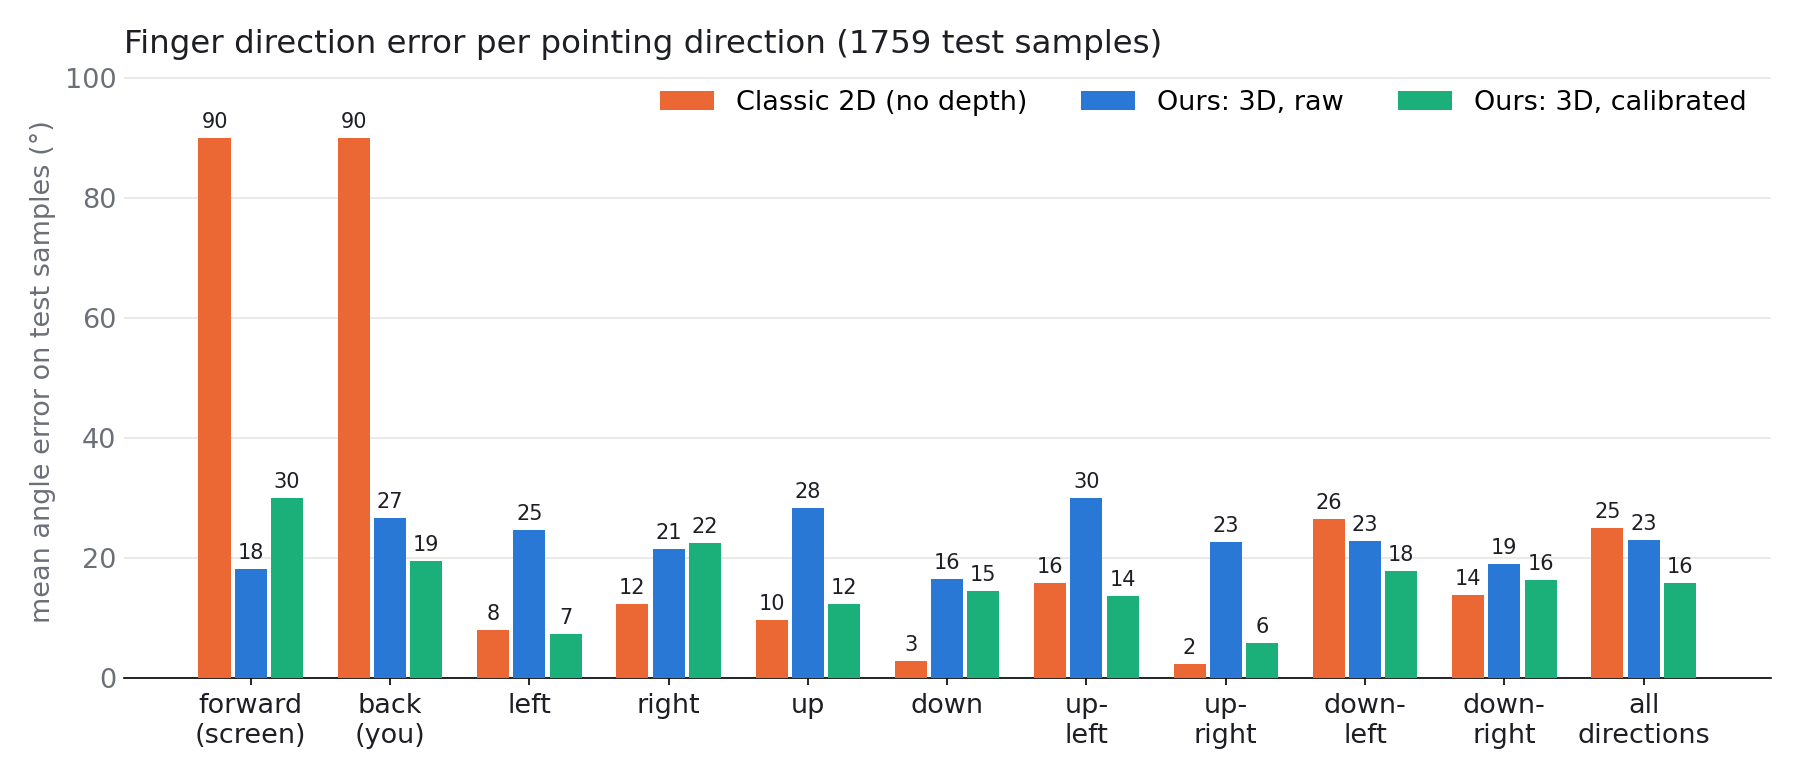
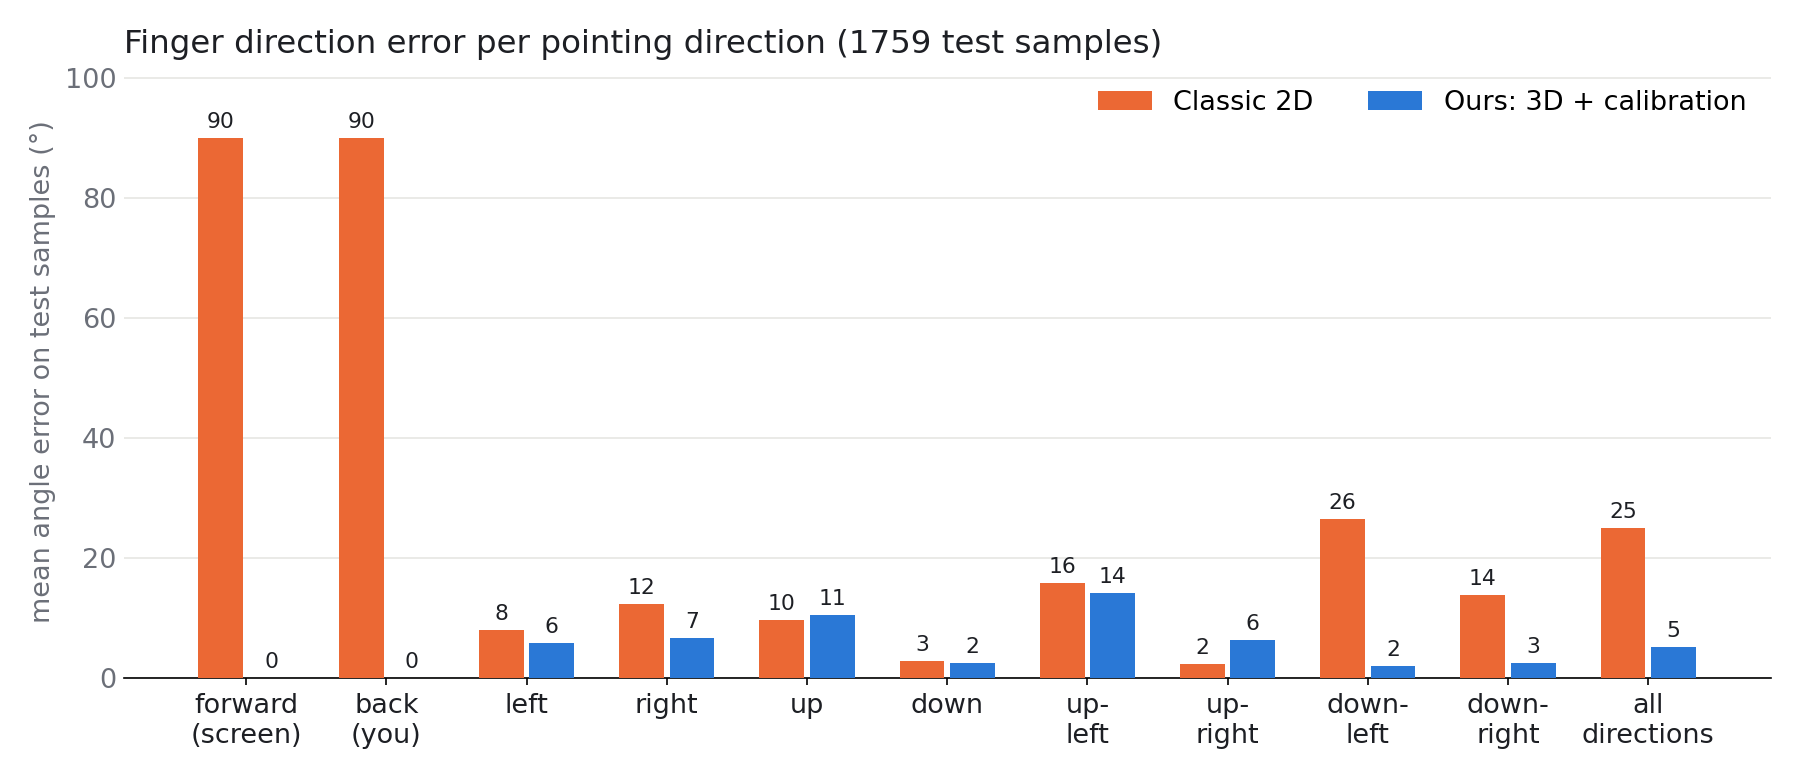
snake3d: region-wise finger calibration (front/back vs sideways, gate chosen on training data); 2D vs ours figure

diff --git a/snake3d/tools/calib_hand.py b/snake3d/tools/calib_hand.py
@@ -5,7 +5,8 @@ the error per direction for: the classic 2D method, our raw 3D direction, and th
 Record in hand3d.html: hold each direction and its key (1-6) for ~5 s, then Export JSON.
   python3 tools/calib_hand.py hand_samples_*.json --out docs/slides/cam_calib.png
 
-Model: d' = normalize(W d + b), W 3x3 and b 3x1 fitted by least squares on the training samples.
+Model: d' = normalize(W d + b), fitted by least squares. 'region' uses two (W, b): one for directions towards /
+away from the screen (|d_z| > tau on the measured direction), one for sideways; tau is chosen on training data.
 Split: with 2+ files, the last file is the test set; with one file, the last 40% of each direction (in time).
 """
 import argparse, json, sys
@@ -62,32 +63,69 @@ else:
     te = [x[m] for x in (lab, raw, flat, t)]
 
 Ytr = np.array([TARGET[L] for L in tr[0]], float)
-Xtr = np.c_[tr[1], np.ones(len(tr[1]))]
-Wb, *_ = np.linalg.lstsq(Xtr, Ytr, rcond=None)                    # 4x3: rows 0-2 = W^T, row 3 = b
 Yte = np.array([TARGET[L] for L in te[0]], float)
-cal = unit(np.c_[te[1], np.ones(len(te[1]))] @ Wb)
+aff = lambda X: np.c_[X, np.ones(len(X))]
+
+
+def lsq(X, Y):                                                     # 4x3: rows 0-2 = W^T, row 3 = b
+    return np.linalg.lstsq(aff(X), Y, rcond=None)[0]
+
+
+def fit_region(X, Y, tau):
+    """Two corrections, picked by the MEASURED direction (never the label): |d_z| > tau = towards / away from
+    the screen, else sideways."""
+    g = np.abs(X[:, 2]) > tau
+    Wf = lsq(X[g], Y[g]) if g.sum() > 20 else lsq(X, Y)
+    Ws = lsq(X[~g], Y[~g]) if (~g).sum() > 20 else lsq(X, Y)
+    return lambda Z: unit(np.where((np.abs(Z[:, 2]) > tau)[:, None], aff(Z) @ Wf, aff(Z) @ Ws)), (Wf, Ws)
+
+
+# the gate tau is chosen on the training set only (inner time split), then refit on all training samples
+inner = np.zeros(len(tr[0]), bool)
+for L in np.unique(tr[0]):
+    idx = np.where(tr[0] == L)[0]
+    idx = idx[np.argsort(tr[3][idx])]
+    inner[idx[int(len(idx) * 0.6):]] = True
+taus = np.arange(0.40, 0.951, 0.05)
+cv = [ang(fit_region(tr[1][~inner], Ytr[~inner], tau)[0](tr[1][inner]), Ytr[inner]).mean() for tau in taus]
+tau = float(taus[int(np.argmin(cv))])
+region, (Wf, Ws) = fit_region(tr[1], Ytr, tau)
+Wb = lsq(tr[1], Ytr)
+glob = unit(aff(te[1]) @ Wb)
+reg = region(te[1])
 
 order = [L for L in TARGET if L in set(te[0])]
 res = {}
-for L in order:
-    k = te[0] == L
-    res[L] = {"n_test": int(k.sum()),
-              "2d": float(ang(te[2][k], Yte[k]).mean()),
-              "raw3d": float(ang(te[1][k], Yte[k]).mean()),
-              "cal3d": float(ang(cal[k], Yte[k]).mean())}
-allk = np.ones(len(te[0]), bool)
-res["all"] = {"n_test": int(allk.sum()), "2d": float(ang(te[2], Yte).mean()),
-              "raw3d": float(ang(te[1], Yte).mean()), "cal3d": float(ang(cal, Yte).mean())}
+for L in order + ["all"]:
+    k = te[0] == L if L != "all" else np.ones(len(te[0]), bool)
+    res[L] = {"n_test": int(k.sum()), "2d": float(ang(te[2][k], Yte[k]).mean()),
+              "raw3d": float(ang(te[1][k], Yte[k]).mean()), "global3d": float(ang(glob[k], Yte[k]).mean()),
+              "region3d": float(ang(reg[k], Yte[k]).mean())}
 
-print(f"train {len(tr[0])} samples, test {len(te[0])} samples")
-print(f"{'direction':18s} {'n':>5s} {'2D':>7s} {'3D raw':>7s} {'3D cal':>7s}   (mean angle error, deg)")
+print(f"train {len(tr[0])} samples, test {len(te[0])} samples, gate tau = {tau:.2f} (chosen on training data)")
+print(f"{'direction':18s} {'n':>5s} {'2D':>7s} {'3D raw':>7s} {'global':>7s} {'region':>7s}   (mean angle error, deg)")
 for L, r in res.items():
-    print(f"{L:18s} {r['n_test']:5d} {r['2d']:7.1f} {r['raw3d']:7.1f} {r['cal3d']:7.1f}")
-print("W =\n", np.round(Wb[:3].T, 3), "\nb =", np.round(Wb[3], 3))
+    print(f"{L:18s} {r['n_test']:5d} {r['2d']:7.1f} {r['raw3d']:7.1f} {r['global3d']:7.1f} {r['region3d']:7.1f}")
+
+# stricter check: fit on the 6 axis directions only, test on the 4 diagonals that were never used in fitting
+diag = ["up-left", "up-right", "down-left", "down-right"]
+lab_all = np.concatenate([tr[0], te[0]]); X_all = np.concatenate([tr[1], te[1]]); F_all = np.concatenate([tr[2], te[2]])
+Y_all = np.array([TARGET[L] for L in lab_all], float)
+ax6 = ~np.isin(lab_all, diag)
+unseen = None
+if (~ax6).any() and ax6.any():
+    reg6, _ = fit_region(X_all[ax6], Y_all[ax6], tau)
+    k = ~ax6
+    unseen = {"n": int(k.sum()), "2d": float(ang(F_all[k], Y_all[k]).mean()), "raw3d": float(ang(X_all[k], Y_all[k]).mean()),
+              "global3d": float(ang(unit(aff(X_all[k]) @ lsq(X_all[ax6], Y_all[ax6])), Y_all[k]).mean()),
+              "region3d": float(ang(reg6(X_all[k]), Y_all[k]).mean())}
+    print(f"unseen diagonals ({unseen['n']}): 2D {unseen['2d']:.1f}  raw {unseen['raw3d']:.1f}  "
+          f"global {unseen['global3d']:.1f}  region {unseen['region3d']:.1f}")
 
 out = Path(a.out)
 out.parent.mkdir(parents=True, exist_ok=True)
-json.dump({"results": res, "W": Wb[:3].T.tolist(), "b": Wb[3].tolist(), "files": a.files},
+json.dump({"results": res, "unseen_diagonals": unseen, "tau": tau, "W_global": Wb.tolist(),
+           "W_front_back": Wf.tolist(), "W_sideways": Ws.tolist(), "files": a.files},
           open(out.with_suffix(".json"), "w"), indent=1)
 
 import matplotlib
@@ -95,22 +133,21 @@ matplotlib.use("Agg")
 import matplotlib.pyplot as plt
 plt.rcParams.update({"font.size": 13, "font.family": "DejaVu Sans"})
 INK, MUTED = "#1d1f24", "#6b6f78"
-series = [("2d", "Classic 2D (no depth)", "#eb6834"), ("raw3d", "Ours: 3D, raw", "#2a78d6"),
-          ("cal3d", "Ours: 3D, calibrated", "#1baf7a")]
+series = [("2d", "Classic 2D", "#eb6834"), ("region3d", "Ours: 3D + calibration", "#2a78d6")]
 cats = order + ["all"]
-x = np.arange(len(cats)); w = 0.26
+x = np.arange(len(cats)); w = 0.36
 fig, ax = plt.subplots(figsize=(12, 5.2))
 for i, (key, name, col) in enumerate(series):
     v = [res[c][key] for c in cats]
-    bars = ax.bar(x + (i - 1) * w, v, w - 0.03, color=col, label=name, zorder=3)
+    bars = ax.bar(x + (i - 0.5) * w, v, w - 0.04, color=col, label=name, zorder=3)
     for b_, val in zip(bars, v):
-        ax.text(b_.get_x() + b_.get_width() / 2, val + 1, f"{val:.0f}", ha="center", va="bottom", fontsize=10, color=INK)
+        ax.text(b_.get_x() + b_.get_width() / 2, val + 1, f"{val:.0f}", ha="center", va="bottom", fontsize=10.5, color=INK)
 ax.set_xticks(x, [SHORT.get(c, c) if c != "all" else "all\ndirections" for c in cats], color=INK)
 ax.set_ylabel("mean angle error on test samples (°)", color=MUTED)
 ax.grid(axis="y", color="#e6e6e3", zorder=0)
 ax.spines[["top", "right", "left"]].set_visible(False)
 ax.tick_params(axis="y", colors=MUTED, length=0)
-ax.legend(frameon=False, loc="upper right", ncol=3)
+ax.legend(frameon=False, loc="upper right", ncol=2)
 ax.set_ylim(0, max(100, max(res[c]["2d"] for c in cats) + 12))
 ax.set_title(f"Finger direction error per pointing direction ({res['all']['n_test']} test samples)", color=INK, loc="left")
 plt.tight_layout()
